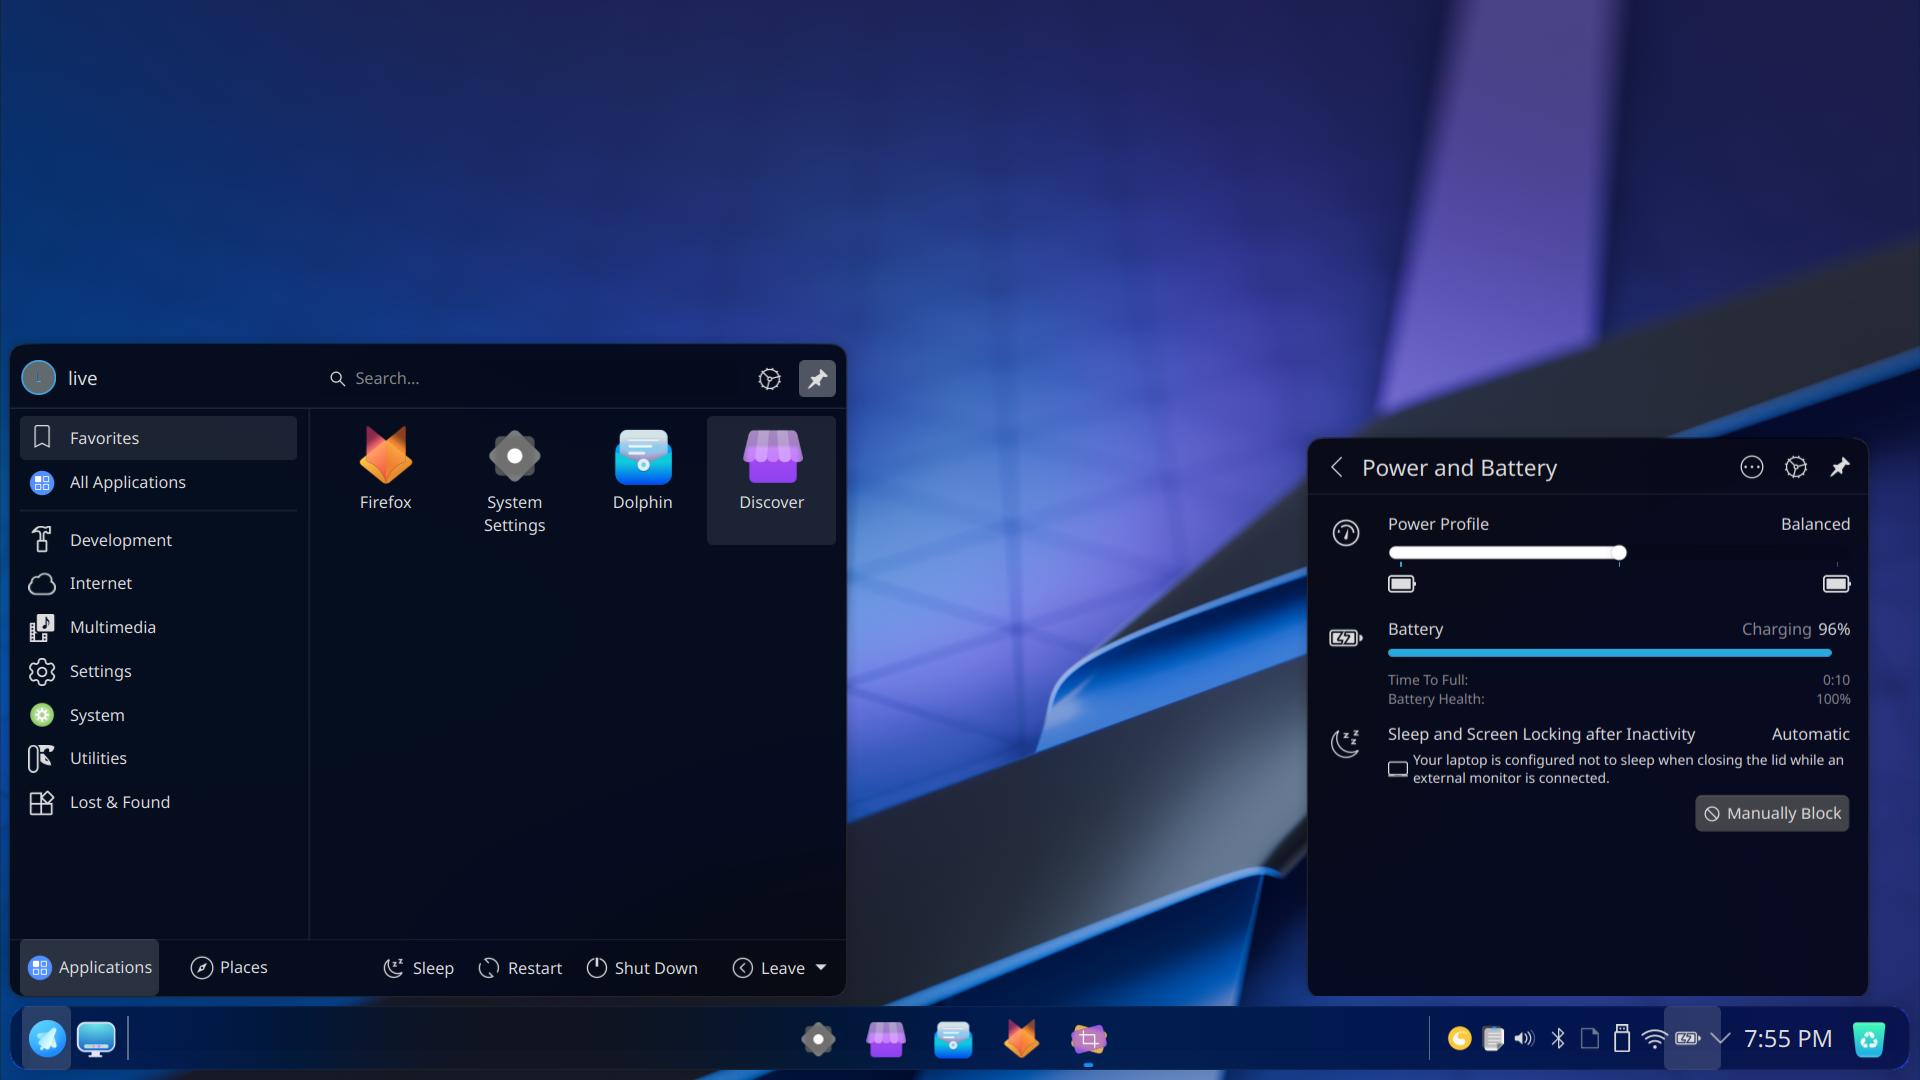
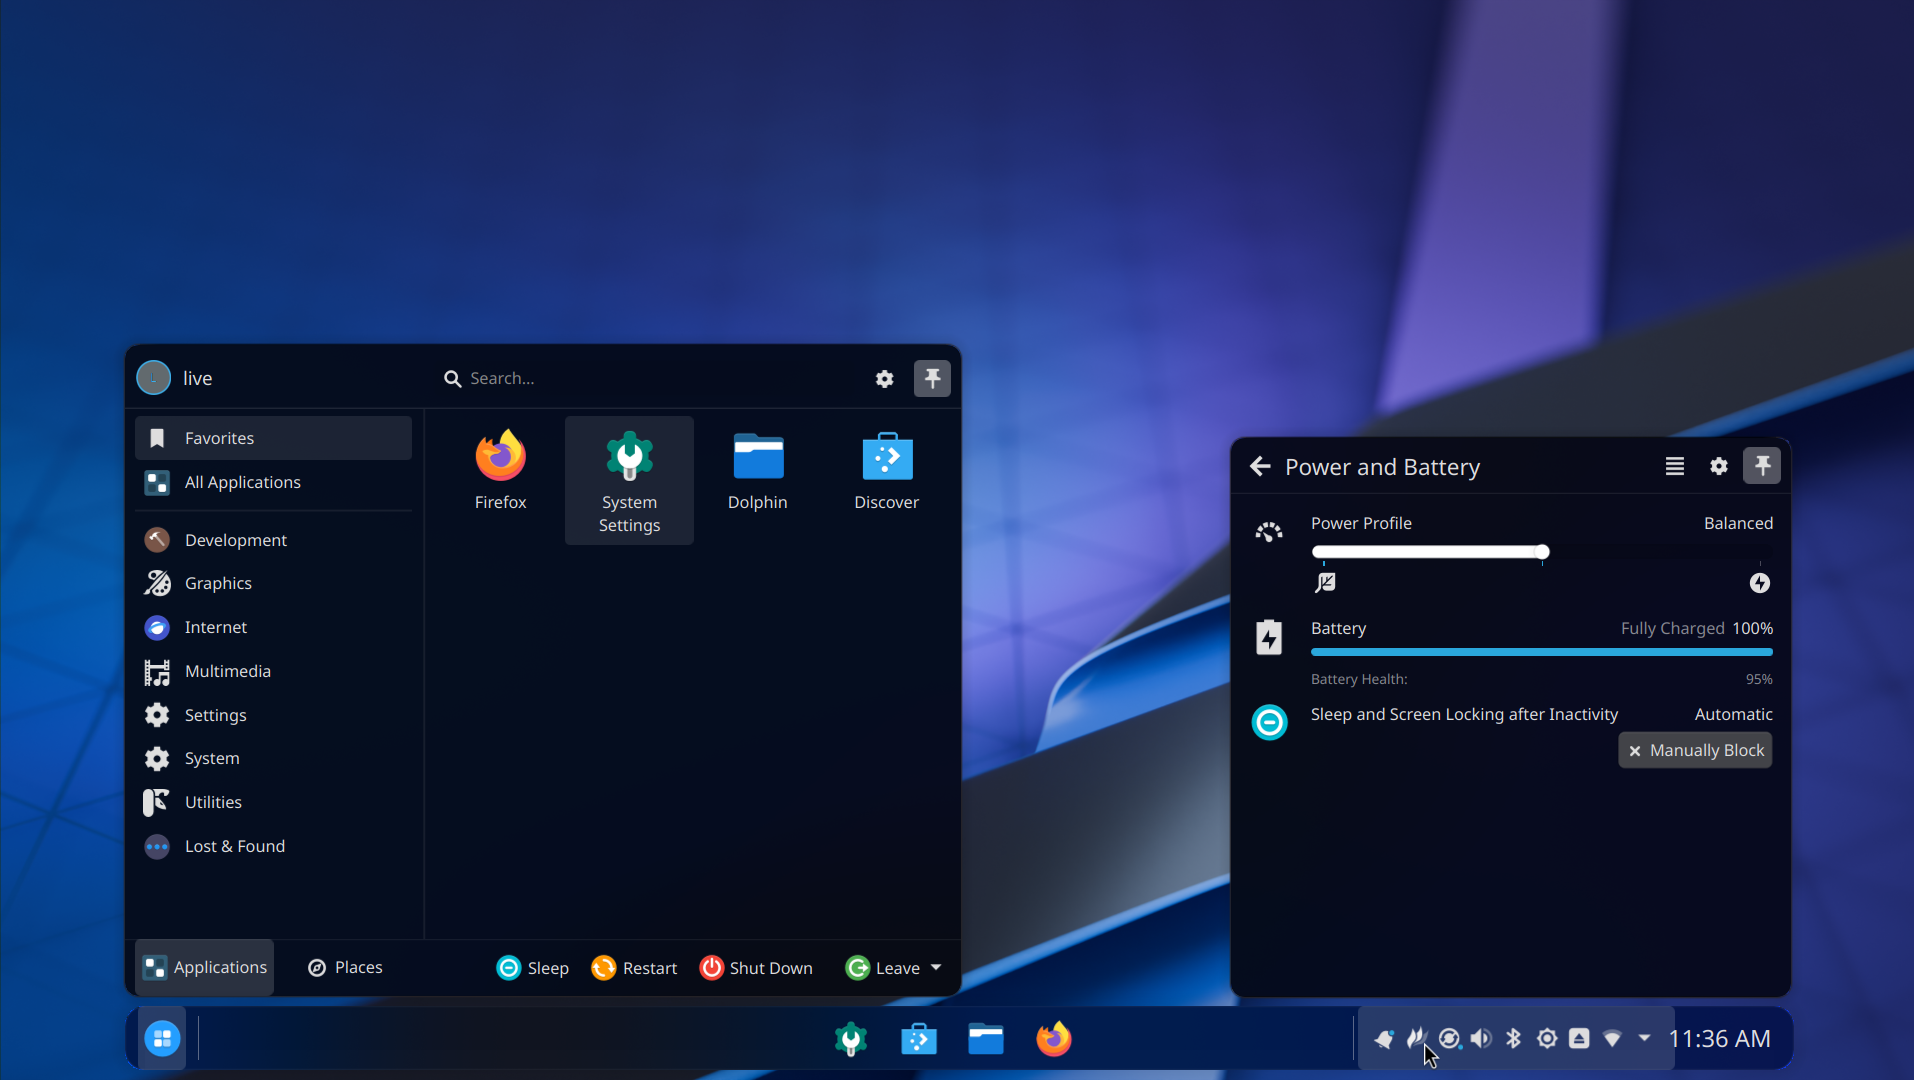
Changed images and fixed links

diff --git a/src/content/docs/reference/desktops.md b/src/content/docs/reference/desktops.md
@@ -22,19 +22,16 @@ As it is a very known and active desktop environement, you can find everything y
 
 ## Calla
 
-Calla (made by [Stardust-kyun](https://github.com/Stardust-kyun)) is the second desktop environment for AxOS. It is a lightweight desktop environment. It is the most resource-efficient desktop environment of the 3, but it is also the hardest to use.
+Calla (made by [Stardust-kyun](https://github.com/Stardust-kyun)) is the second desktop environment for AxOS. It is a lightweight and ressource efficient desktop environment. 
 
-It is a tiling window manager, so you can manage your windows with a keyboard. It is based on the AwesomeWM window manager, so you can customize it if you know how to code 
-with Lua. 
+Calla is a tiling window manager, so you can manage your windows with a keyboard. It is also better if used with keybindings, so you can manage your windows with a keyboard. You can find them by pressing `Super + F1`. If you need, you can change some settings (including keybindings) by editing the `/usr/share/calla/desktop/config/bind.lua` file.
 
-The desktop uses a lot of keybindings, so you can manage your windows with a keyboard. You can find them by pressing `Super + F1`. If you need, you can change them by editing the `.config/awesome/config/bind.lua` file. 
-
-![Calla](../../../assets/desktops/calla.jpg) 
+![Calla](../../../assets/desktops/calla.png)  
 
 | Pros               | Cons                                |
 | ------------------ | ----------------------------------- |
 | Lightweight        | Hard to (fully) use                 |
-| Tiling             | No graphical configuration tool     |
+| Tiling             | Less stable than Plasma             |
 | Resource-efficient | Less features than other desktops   |
 
 ## Hyprland
